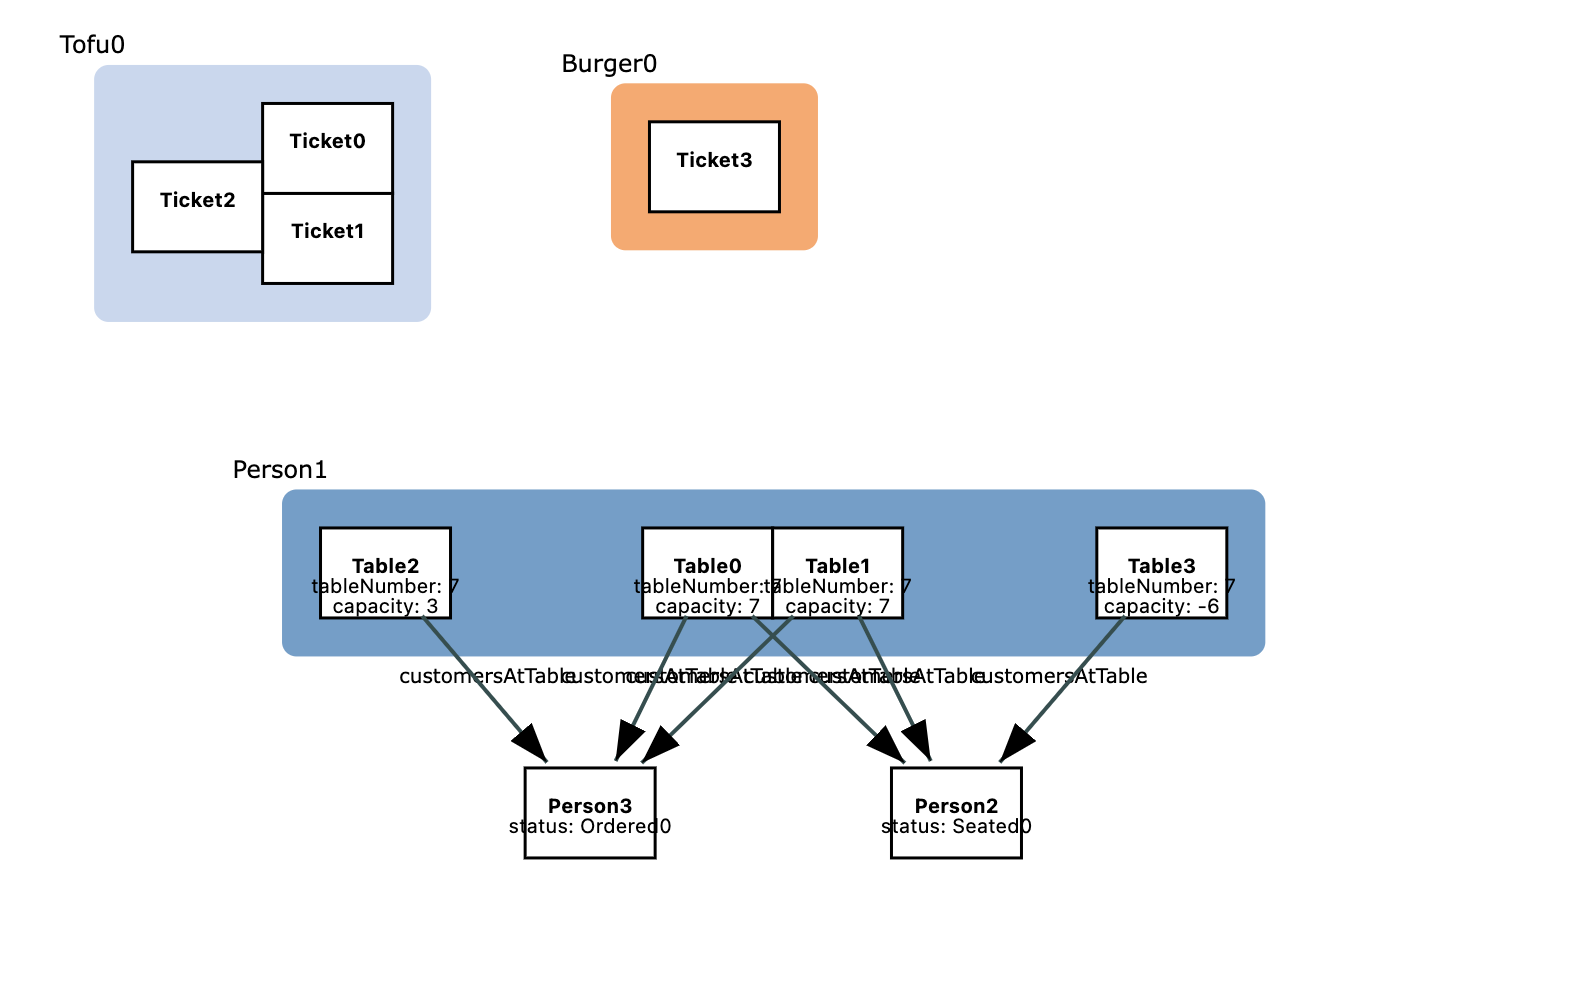
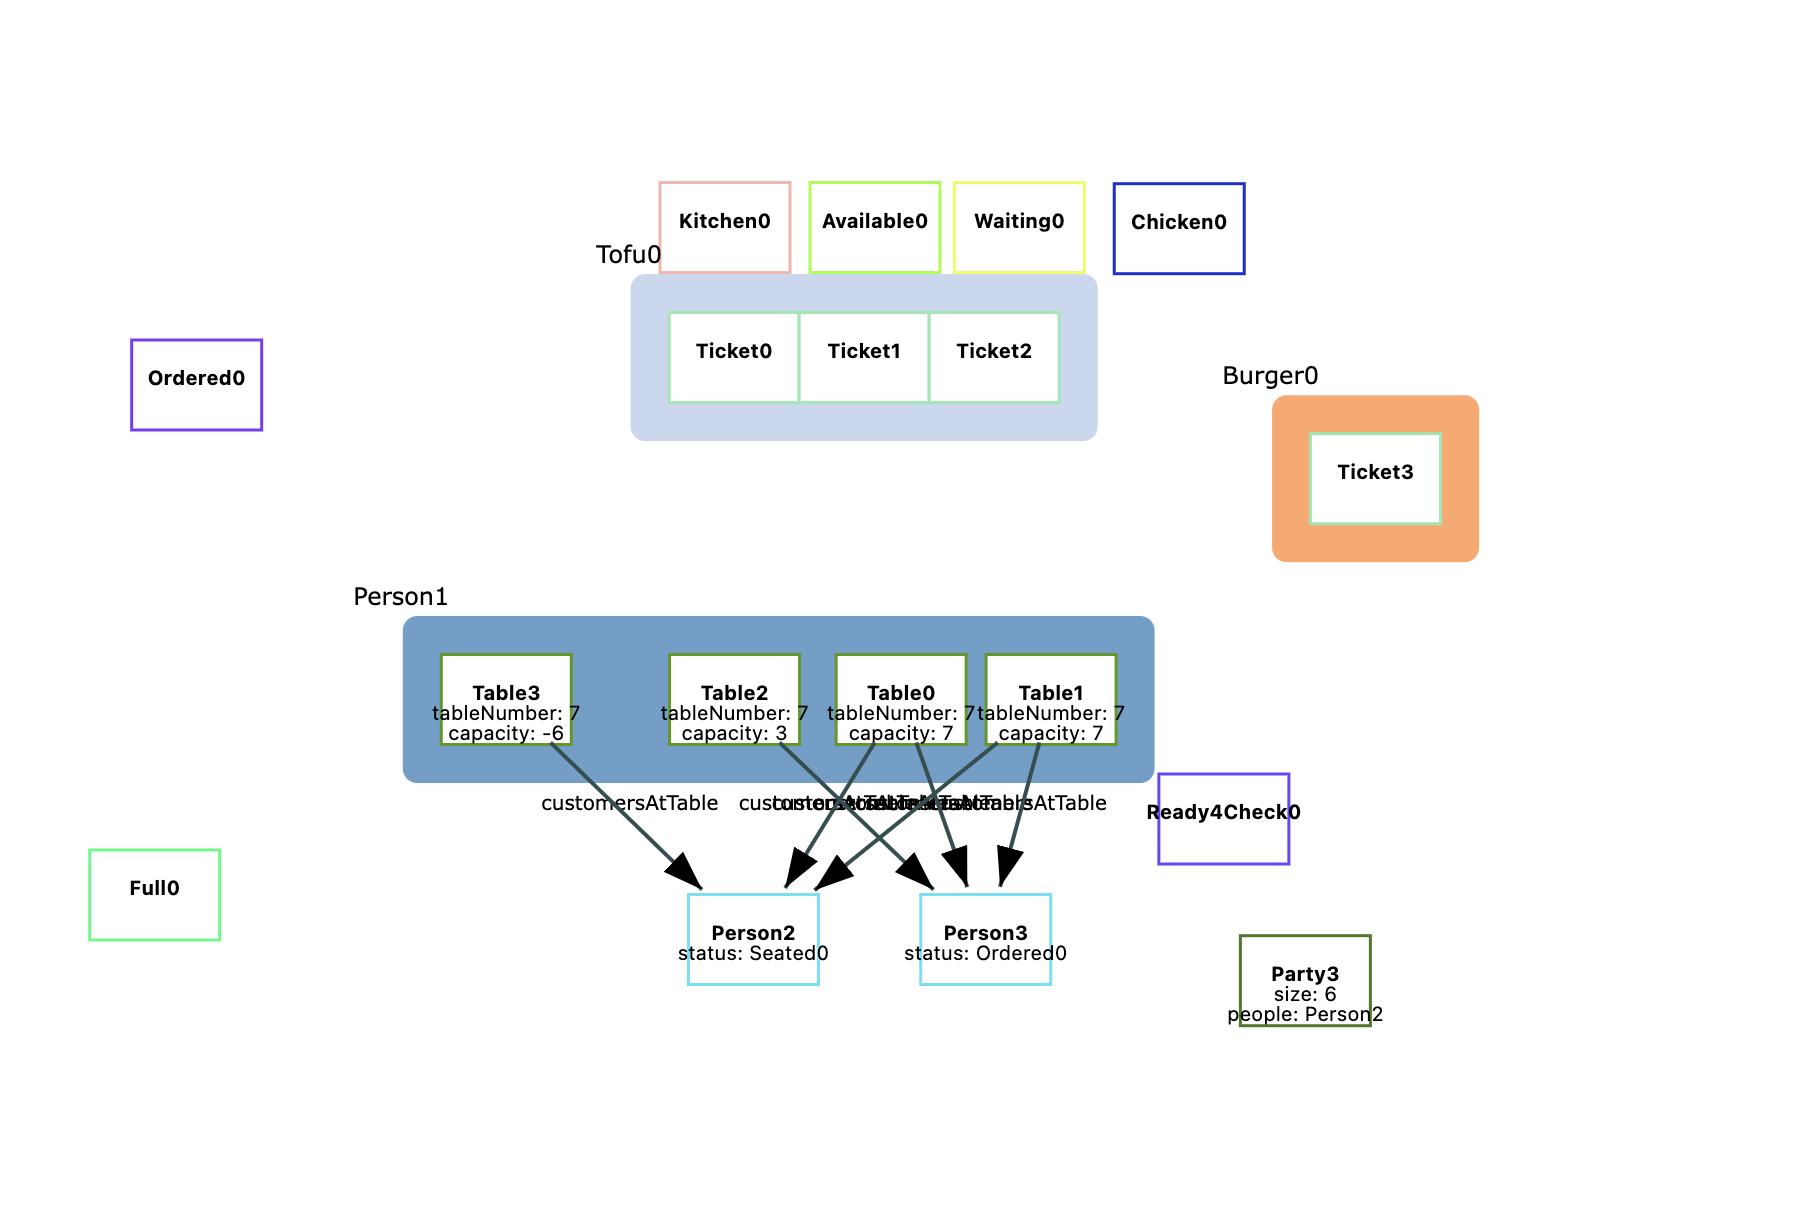
Setting different typed nodes to different colors in webcola

diff --git a/src/layoutinstance.ts b/src/layoutinstance.ts
@@ -1,7 +1,7 @@
 
 import { group } from 'console';
 import { Graph, Edge } from 'graphlib';
-import { AlloyInstance, getAtomType } from './alloy-instance';
+import { AlloyInstance, getAtomType, getInstanceTypes } from './alloy-instance';
 import { isBuiltin } from './alloy-instance/src/type';
 
 
@@ -219,35 +219,31 @@ export class LayoutInstance {
 
         let nodes = [...g.nodes()];
 
-        // Built-ins :
-        // Node types : isBuiltin
-        a.types
 
-        if (this.hideDisconnected) {
-            nodes.forEach((node) => {
+        nodes.forEach((node) => {
 
 
-                // Check if builtin
-                try {
-                    const type = getAtomType(a, node);
-                    const isAtomBuiltin = isBuiltin(type);
+            // Check if builtin
+            try {
+                const type = getAtomType(a, node);
+                const isAtomBuiltin = isBuiltin(type);
 
-                    let inEdges = g.inEdges(node) || [];
-                    let outEdges = g.outEdges(node) || [];
-                    const isDisconnected = inEdges.length === 0 && outEdges.length === 0;
+                let inEdges = g.inEdges(node) || [];
+                let outEdges = g.outEdges(node) || [];
+                const isDisconnected = inEdges.length === 0 && outEdges.length === 0;
 
 
-                    const hideNode = isDisconnected && ( (this.hideDisconnectedBuiltIns && isAtomBuiltin) || this.hideDisconnected );
+                const hideNode = isDisconnected && ( (this.hideDisconnectedBuiltIns && isAtomBuiltin) || this.hideDisconnected );
 
-                    if (hideNode) {
-                        g.removeNode(node);
-                    }
-
-                } catch (error) {
-                    console.error("Failed to identify node type. Defaulting to showing node.", error);
+                if (hideNode) {
+                    g.removeNode(node);
                 }
-            });
-        }
+
+            } catch (error) {
+                console.error("Failed to identify node type. Defaulting to showing node.", error);
+            }
+        });
+
         
 
     }
@@ -270,6 +266,41 @@ export class LayoutInstance {
 
         const groups = this.generateGroups(g);
 
-        return {groups, attributes};
+
+        const colors = this.colorNodesByType(g, a);
+
+        return {groups, attributes, colors};
+    }
+
+
+    private getRandomColor(): string {
+        const letters = '0123456789ABCDEF';
+        let color = '#';
+        for (let i = 0; i < 6; i++) {
+            color += letters[Math.floor(Math.random() * 16)];
+        }
+        return color;
+    }
+
+    private colorNodesByType(g : Graph, a : AlloyInstance) : Record<string, string> {
+        let colorsByType : Record<string, string> = {};
+        let nodes = [...g.nodes()];
+
+        let types = getInstanceTypes(a);
+
+        // For each type, assign a unique, random color
+        types.forEach((type) => {
+            colorsByType[type.id] = this.getRandomColor();
+        });
+
+
+        let colorsByNode = {};
+        nodes.forEach((node) => {
+            // Get the type of the node
+            let type = getAtomType(a, node);
+            let color = colorsByType[type.id];
+            colorsByNode[node] = color;
+        });
+        return colorsByNode;
     }
 }

diff --git a/src/webcola-gen/graphtowebcola.ts b/src/webcola-gen/graphtowebcola.ts
@@ -19,7 +19,7 @@ const DEFAULT_Y = 0;
 
 
 
-type NodeWithId = Node & { id: string, attributes: Record<string, string[]> };
+type NodeWithMetadata = Node & { id: string, attributes: Record<string, string[]>, color: string };
 
 export function graphToWebcola(graph: Graph, layoutInstance: LayoutInstance, alloyInstance : AlloyInstance) {
 
@@ -30,15 +30,16 @@ export function graphToWebcola(graph: Graph, layoutInstance: LayoutInstance, all
 
   const groupDefinitions = changes.groups;
   const allGraphAttributes = changes.attributes;
+  const nodeColors = changes.colors;
 
-  const colaNodes: NodeWithId[] = graph.nodes().map(node => {
+  const colaNodes: NodeWithMetadata[] = graph.nodes().map(node => {
 
     const attributes = allGraphAttributes[node] || {};
-
+    const color = nodeColors[node] || "white";
 
     const h = nodeHeight + minSepHeight;
     const w = nodeWidth + minSepWidth;
-    return { id: node, x: DEFAULT_X, y: DEFAULT_Y, width: w, height: h, attributes: attributes };
+    return { id: node, x: DEFAULT_X, y: DEFAULT_Y, width: w, height: h, attributes: attributes , color: color };
   });
 
   function getNodeIndex(nodeId: string) {
